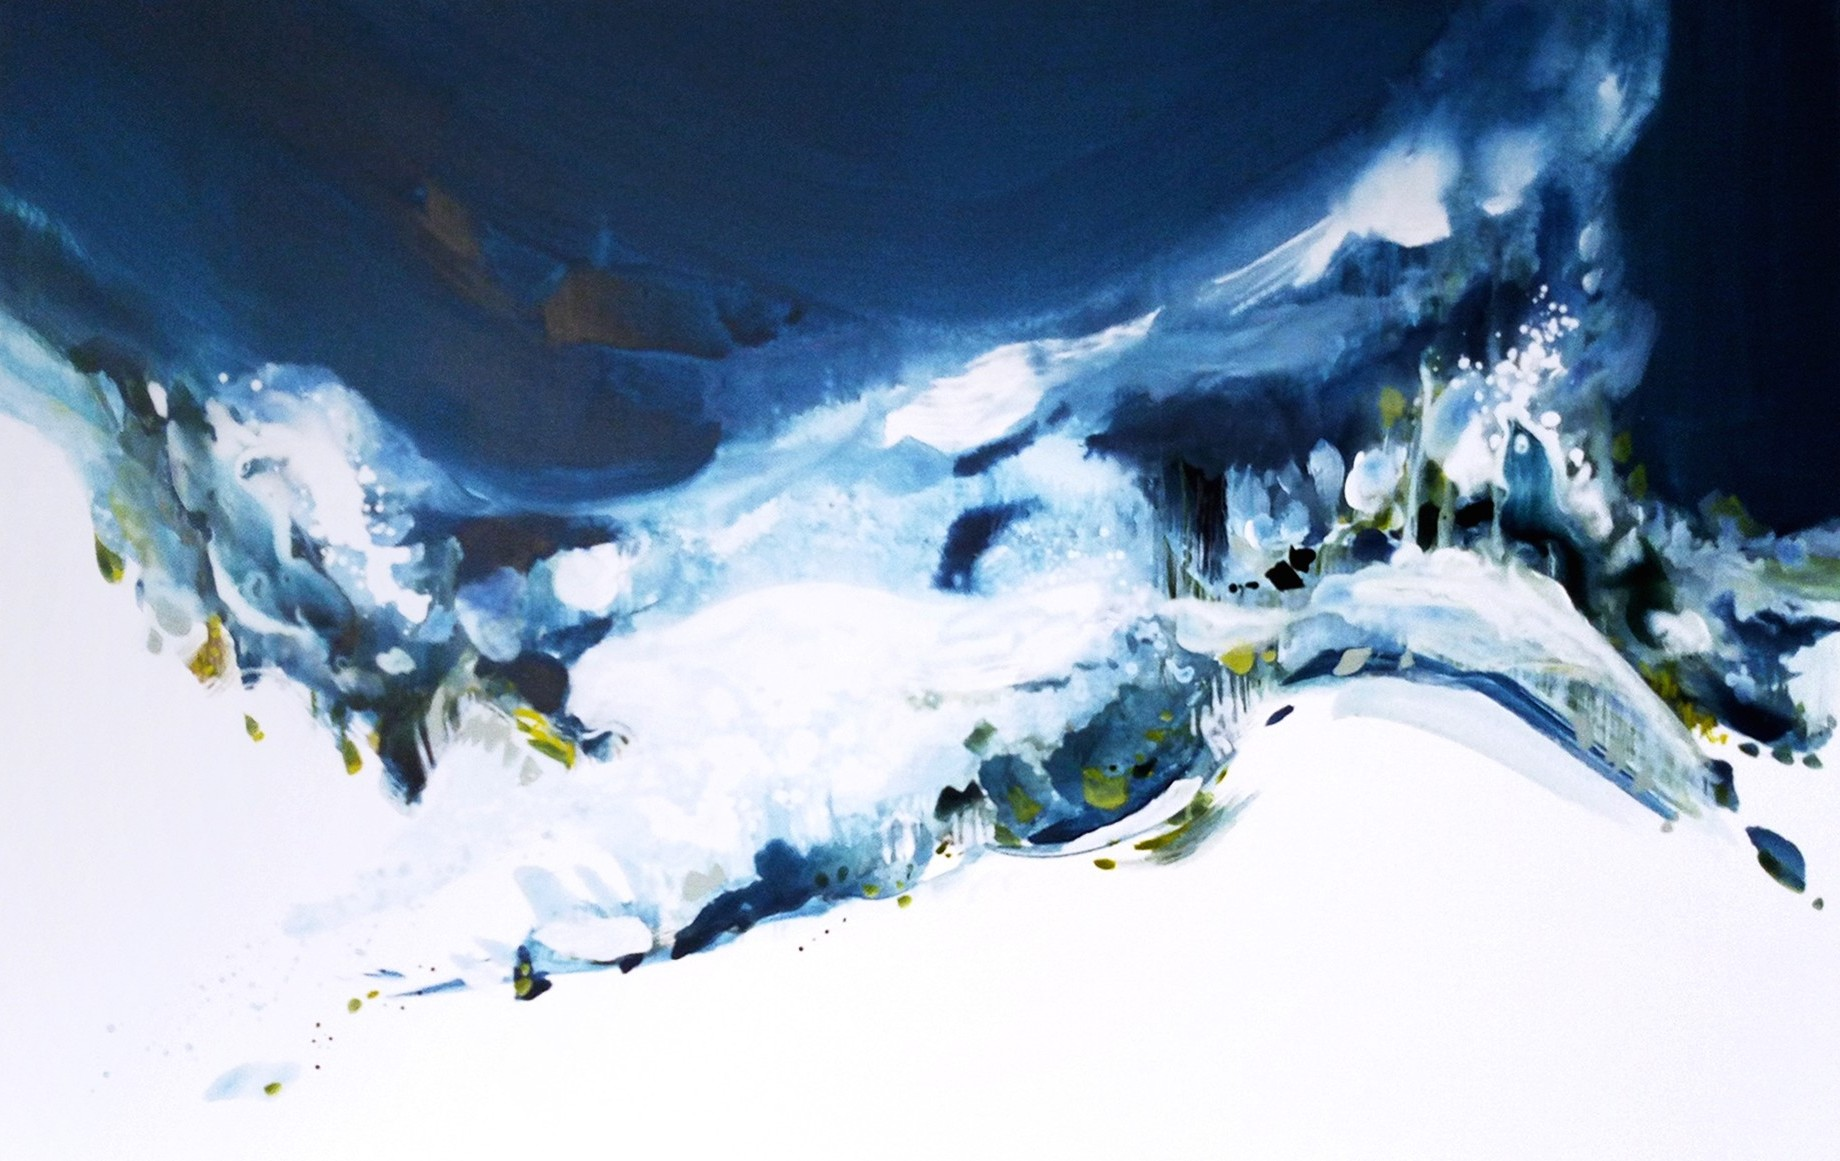
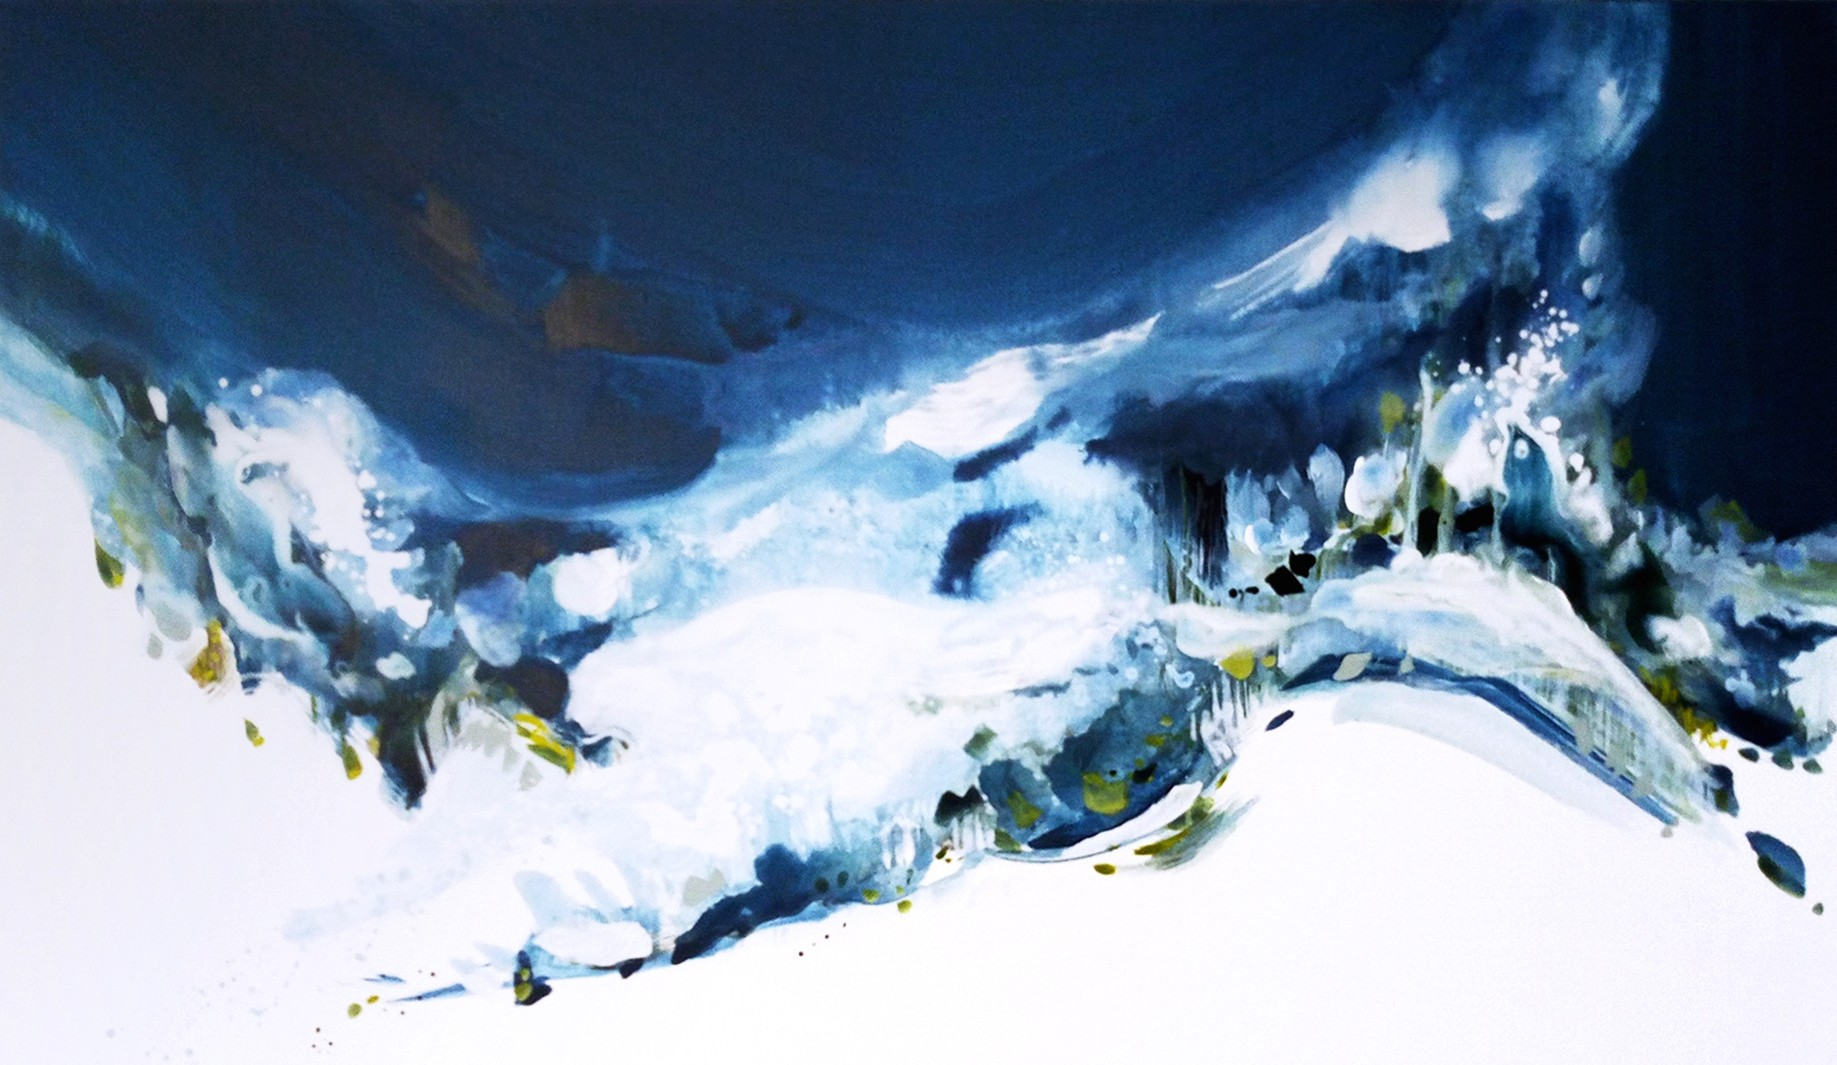
desktop

diff --git a/components/sections/Hero.tsx b/components/sections/Hero.tsx
@@ -4,22 +4,13 @@ import { getAssetPath } from '@/lib/config'
 export default function Hero() {
   return (
     <>
-      {/* Fond bleu derrière le tableau */}
-      <div 
-        className="fixed inset-0 -z-20"
-        style={{
-          backgroundColor: '#1d395e',
-          minHeight: '100svh',
-          height: '100svh',
-        }}
-      />
       {/* Fond fixe du tableau mobile */}
       <div 
         className="fixed inset-0 -z-10 sm:hidden overflow-hidden"
         style={{
           backgroundImage: `url(${encodeURI(getAssetPath("/assets/Tableau/Mountains-by-StephanHerrgott-2017 - Mobile.jpg"))})`,
           backgroundSize: 'cover',
-          backgroundPosition: 'center center',
+          backgroundPosition: 'center top',
           backgroundRepeat: 'no-repeat',
           backgroundAttachment: 'scroll',
           minHeight: '100svh',
@@ -32,26 +23,26 @@ export default function Hero() {
         style={{
           backgroundImage: `url(${encodeURI(getAssetPath("/assets/Tableau/Mountains-by-StephanHerrgott-2017.jpg"))})`,
           backgroundSize: 'cover',
-          backgroundPosition: 'center center',
+          backgroundPosition: 'center top',
           backgroundRepeat: 'no-repeat',
           backgroundAttachment: 'fixed',
         }}
       />
       
       {/* Logo fixe - au-dessus de la peinture, en dessous du contenu */}
-      <div className="fixed inset-0 flex flex-col justify-start items-center z-[5] pointer-events-none" style={{ paddingTop: '120px', minHeight: '100svh', height: '100svh' }}>
+      <div className="fixed inset-0 flex flex-col justify-start items-center z-[5] pointer-events-none" style={{ paddingTop: '100px', minHeight: '100svh', height: '100svh' }}>
         <div className="text-center px-4 sm:px-6 md:px-8 w-full max-w-5xl">
           <div className="mb-80 sm:mb-32 md:mb-56 lg:mb-72 xl:mb-80">
             <div className="flex justify-center items-center">
-              <div className="relative w-full max-w-[400px] aspect-[400/150] h-16 sm:h-20 md:h-24 lg:h-28 xl:h-32 px-4">
+              <div className="relative w-full max-w-[400px] md:max-w-[600px] lg:max-w-[700px] xl:max-w-[800px] aspect-[400/150] h-16 sm:h-20 md:h-36 lg:h-44 xl:h-52 px-4">
                 <Image
-                  src={getAssetPath("/assets/Logo/Logo DM Invest.png")}
+                  src={getAssetPath("/assets/Logo/Logo DM Invest White.png")}
                   alt="DM Invest SA - Logo - Gestion de fortune à Lausanne, Suisse"
                   width={400}
                   height={150}
                   className="w-full h-full object-contain"
                   priority
-                  sizes="(max-width: 640px) 200px, (max-width: 768px) 300px, (max-width: 1024px) 350px, 400px"
+                  sizes="(max-width: 640px) 200px, (max-width: 768px) 300px, (max-width: 1024px) 500px, (max-width: 1280px) 600px, 800px"
                 />
               </div>
             </div>
@@ -63,7 +54,7 @@ export default function Hero() {
       <div className="fixed inset-0 flex flex-col justify-center items-center z-[10] pointer-events-none translate-y-52 sm:translate-y-0 md:translate-y-28 lg:translate-y-40 xl:translate-y-48" style={{ minHeight: '100svh', height: '100svh' }}>
         <div className="text-center px-4 sm:px-6 md:px-8 w-full max-w-5xl">
           {/* Titre */}
-          <h1 className="text-[38px] sm:text-3xl md:text-7xl lg:text-8xl xl:text-9xl font-serif text-dm-red font-normal tracking-tight mb-4 sm:mb-20 md:mb-24 lg:mb-28 px-4">
+          <h1 className="text-[38px] sm:text-3xl md:text-5xl lg:text-6xl xl:text-6xl font-serif text-dm-red font-normal tracking-tight mb-4 sm:mb-20 md:mb-24 lg:mb-28 px-4">
             Gestion de fortune
           </h1>
 

diff --git a/app/layout.tsx b/app/layout.tsx
@@ -1,6 +1,5 @@
 import type { Metadata, Viewport } from 'next'
 import './globals.css'
-import PreloadImages from '@/components/PreloadImages'
 
 export const metadata: Metadata = {
   metadataBase: new URL('https://dminvest.ch'),
@@ -95,7 +94,7 @@ export default function RootLayout({
   const basePath = isProduction ? '/DM_Invest_SA' : ''
   const mobileImage = `${basePath}/assets/Tableau/Mountains-by-StephanHerrgott-2017 - Mobile.jpg`
   const desktopImage = `${basePath}/assets/Tableau/Mountains-by-StephanHerrgott-2017.jpg`
-  const logoImage = `${basePath}/assets/Logo/Logo DM Invest.png`
+  const logoImage = `${basePath}/assets/Logo/Logo DM Invest White.png`
   const portraitYves = `${basePath}/assets/Portrait/Yves.png`
   const portraitMike = `${basePath}/assets/Portrait/Mike.png`
   const portraitPierre = `${basePath}/assets/Portrait/Pierre.png`
@@ -112,7 +111,7 @@ export default function RootLayout({
                 const basePath = '${basePath}';
                 const mobileImg = basePath + '/assets/Tableau/Mountains-by-StephanHerrgott-2017 - Mobile.jpg';
                 const desktopImg = basePath + '/assets/Tableau/Mountains-by-StephanHerrgott-2017.jpg';
-                const logoImg = basePath + '/assets/Logo/Logo DM Invest.png';
+                const logoImg = basePath + '/assets/Logo/Logo DM Invest White.png';
                 const portraitYves = basePath + '/assets/Portrait/Yves.png';
                 const portraitMike = basePath + '/assets/Portrait/Mike.png';
                 const portraitPierre = basePath + '/assets/Portrait/Pierre.png';
@@ -146,7 +145,6 @@ export default function RootLayout({
         />
       </head>
       <body className="bg-transparent" style={{ margin: 0, padding: 0 }}>
-        <PreloadImages />
         <main className="bg-transparent" style={{ margin: 0, padding: 0 }}>{children}</main>
       </body>
     </html>

diff --git a/components/EquipeCards.tsx b/components/EquipeCards.tsx
@@ -47,7 +47,7 @@ export default function EquipeCards() {
       <AnimateOnScroll delay={0.1}>
         <div 
           ref={yvesCardRef}
-          className="bg-dm-red/[0.03] p-6 sm:p-8 md:p-10 flex flex-col sm:h-auto"
+          className="bg-dm-red/[0.03] p-6 sm:p-8 md:p-10 flex flex-col h-full"
         >
           <div className="mb-4 sm:mb-6 flex justify-center">
             <div className="relative w-full max-w-[160px] sm:max-w-[160px] md:max-w-[180px] aspect-[180/220] mx-auto overflow-hidden">
@@ -77,7 +77,7 @@ export default function EquipeCards() {
       {/* Michael Giller */}
       <AnimateOnScroll delay={0.2}>
         <div 
-          className="bg-dm-red/[0.03] p-6 sm:p-8 md:p-10 flex flex-col sm:h-auto"
+          className="bg-dm-red/[0.03] p-6 sm:p-8 md:p-10 flex flex-col h-full"
           style={cardStyle}
         >
           <div className="mb-4 sm:mb-6 flex justify-center">
@@ -106,7 +106,7 @@ export default function EquipeCards() {
       {/* Pierre Unternährer */}
       <AnimateOnScroll delay={0.3}>
         <div 
-          className="bg-dm-red/[0.03] p-6 sm:p-8 md:p-10 flex flex-col sm:h-auto"
+          className="bg-dm-red/[0.03] p-6 sm:p-8 md:p-10 flex flex-col h-full"
           style={cardStyle}
         >
           <div className="mb-4 sm:mb-6 flex justify-center">
@@ -135,7 +135,7 @@ export default function EquipeCards() {
       {/* Sandrine Lavanchy */}
       <AnimateOnScroll delay={0.4}>
         <div 
-          className="bg-dm-red/[0.03] p-6 sm:p-8 md:p-10 flex flex-col sm:h-auto"
+          className="bg-dm-red/[0.03] p-6 sm:p-8 md:p-10 flex flex-col h-full"
           style={cardStyle}
         >
           <div className="mb-4 sm:mb-6 flex justify-center">

diff --git a/components/PreloadImages.tsx b/components/PreloadImages.tsx
@@ -9,7 +9,7 @@ export default function PreloadImages() {
     // Ce script s'exécute dès le montage du composant pour un préchargement rapide
     const mobileImage = getAssetPath("/assets/Tableau/Mountains-by-StephanHerrgott-2017 - Mobile.jpg")
     const desktopImage = getAssetPath("/assets/Tableau/Mountains-by-StephanHerrgott-2017.jpg")
-    const logoImage = getAssetPath("/assets/Logo/Logo DM Invest.png")
+    const logoImage = getAssetPath("/assets/Logo/Logo DM Invest White.png")
     const portraitYves = getAssetPath("/assets/Portrait/Yves.png")
     const portraitMike = getAssetPath("/assets/Portrait/Mike.png")
     const portraitPierre = getAssetPath("/assets/Portrait/Pierre.png")

diff --git a/app/globals.css b/app/globals.css
@@ -25,7 +25,7 @@
     @apply text-anthracite font-sans antialiased;
     margin: 0 !important;
     padding: 0 !important;
-    background: transparent !important;
+    background: #1d395e !important;
     min-height: 100%;
     min-height: -webkit-fill-available;
     min-height: 100svh;
